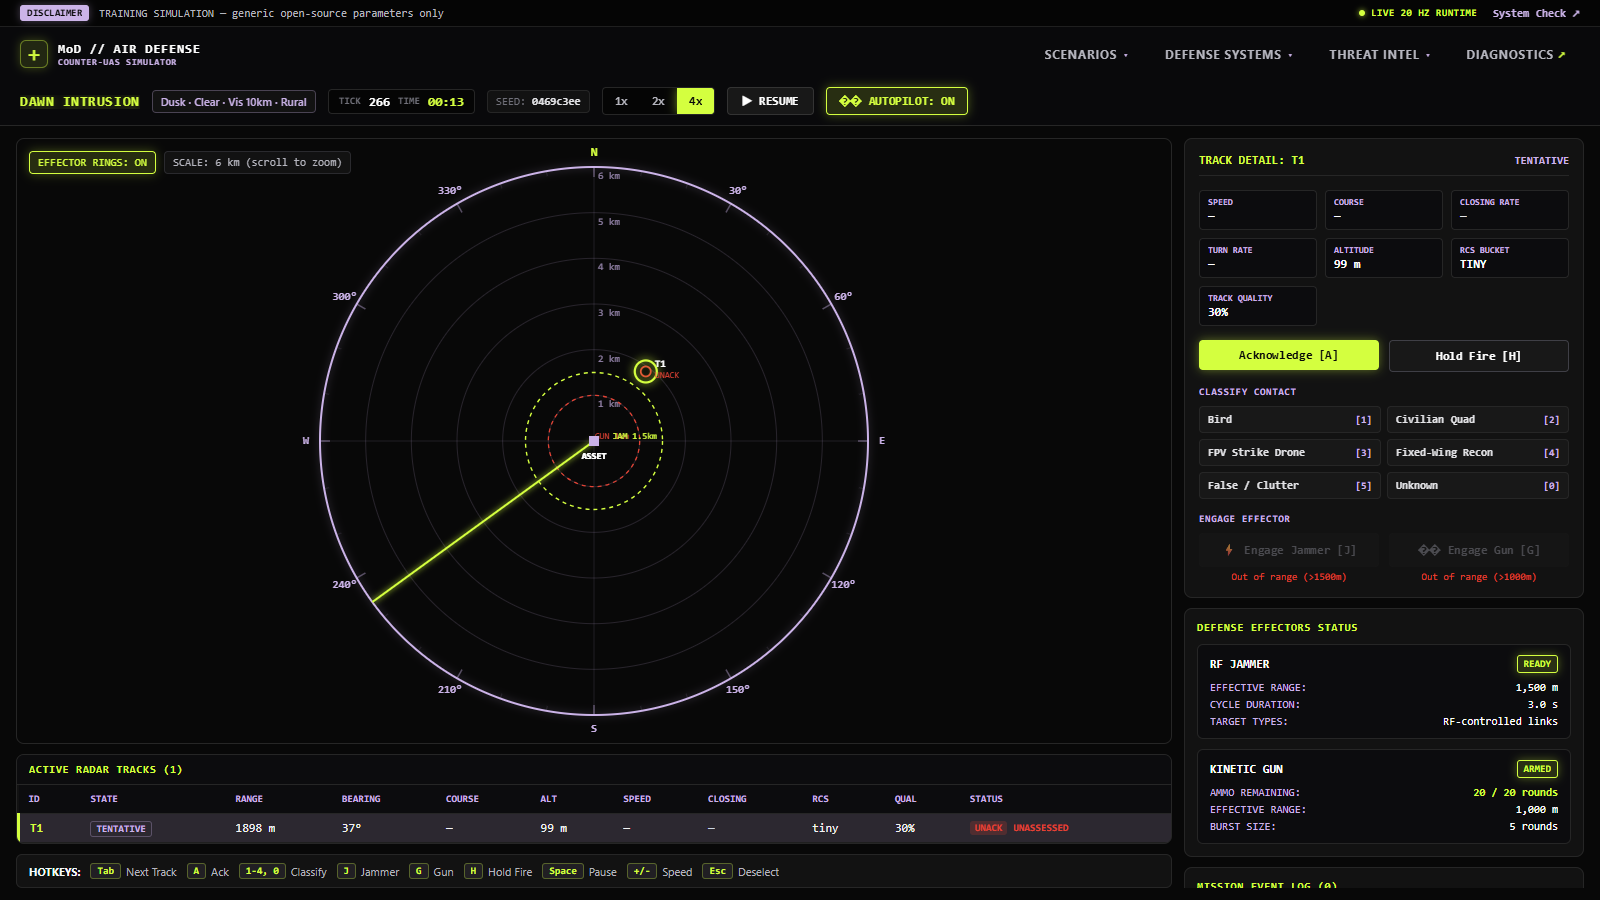
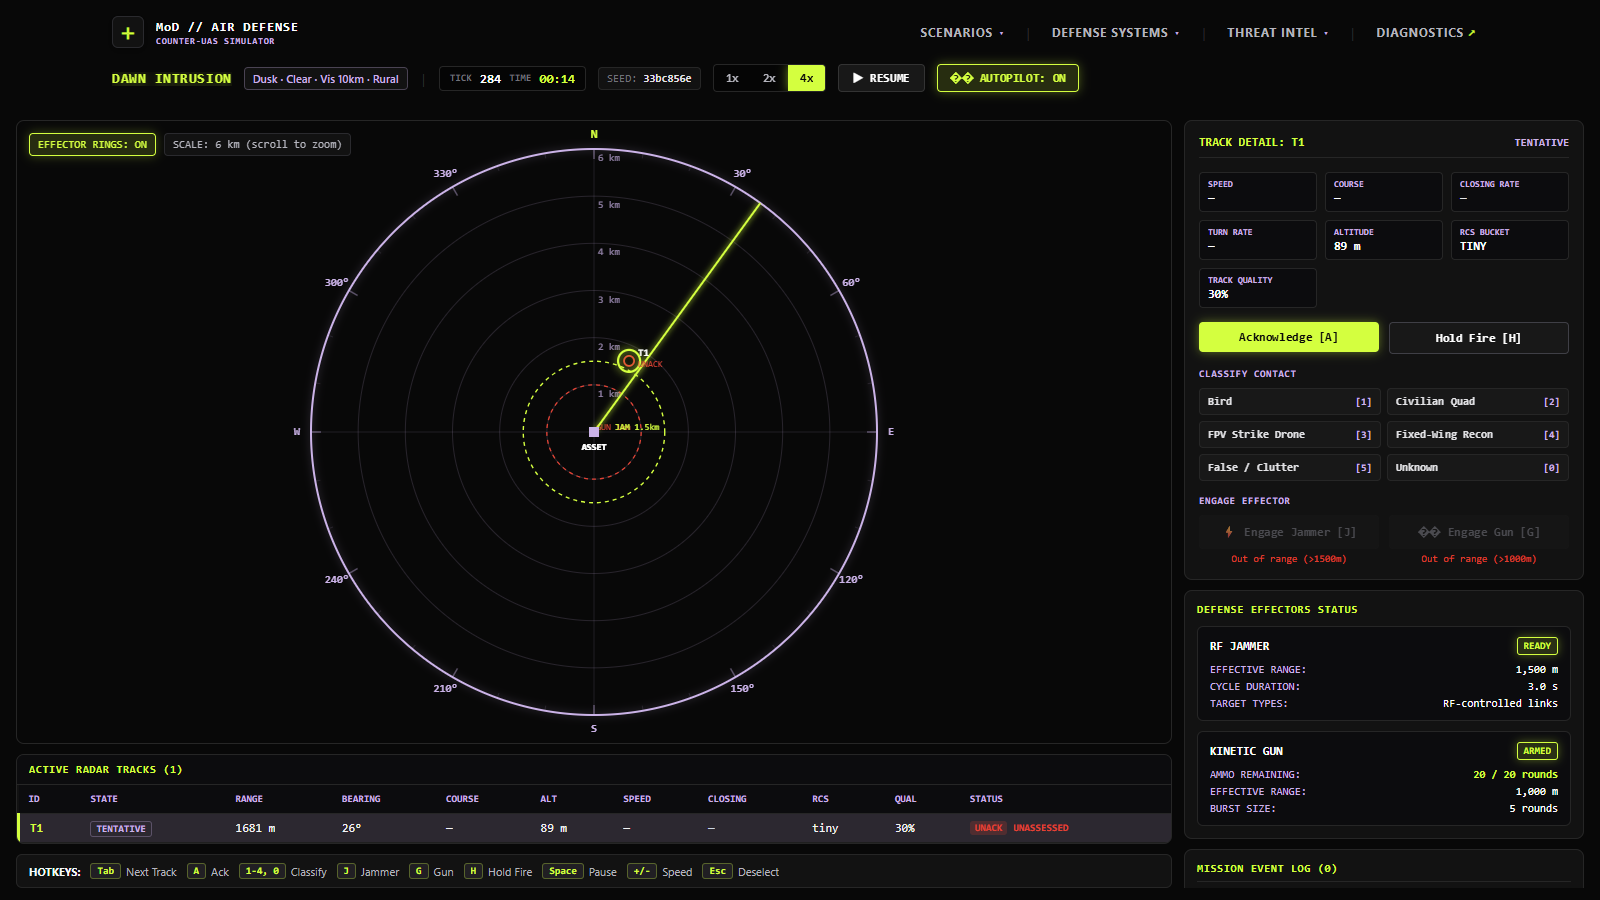
feat(ui): integrate navbar seamlessly into page background with Twenty-inspired styling

diff --git a/src/app/console/TopBar.tsx b/src/app/console/TopBar.tsx
@@ -65,30 +65,7 @@ export function TopBar({
 
   return (
     <header style={styles.headerRoot}>
-      {/* Top Disclaimer / Operational Sub-Bar */}
-      <div style={styles.topSubBar}>
-        <div style={styles.subBarLeft}>
-          <span style={styles.disclaimerPill}>
-            <TextRoll center stagger={0.02}>DISCLAIMER</TextRoll>
-          </span>
-          <span style={styles.disclaimerText}>
-            TRAINING SIMULATION — generic open-source parameters only
-          </span>
-        </div>
-        <div style={styles.subBarRight}>
-          <div style={styles.statusPulse}>
-            <span style={styles.pulseDot} />
-            <span style={styles.pulseText}>
-              {phase === 'running' ? 'LIVE 20 HZ RUNTIME' : 'SIMULATION STANDBY'}
-            </span>
-          </div>
-          <a href="#/check" style={styles.sysCheckLink}>
-            <TextRoll stagger={0.02}>System Check ↗</TextRoll>
-          </a>
-        </div>
-      </div>
-
-      {/* Main Luxury Navigation Bar */}
+      {/* Luxury Integrated Navigation Bar — Part of the page background */}
       <nav style={styles.mainNav}>
         {/* Left: Brand Identity */}
         <div style={styles.brandGroup}>
@@ -187,6 +164,8 @@ export function TopBar({
             </div>
           </div>
 
+          <span style={styles.navDivider}>|</span>
+
           {/* Tab 2: Defense Systems */}
           <div
             className="nav-mega-item"
@@ -266,6 +245,8 @@ export function TopBar({
               </div>
             </div>
           </div>
+
+          <span style={styles.navDivider}>|</span>
 
           {/* Tab 3: Threat Intel */}
           <div
@@ -350,6 +331,8 @@ export function TopBar({
             </div>
           </div>
 
+          <span style={styles.navDivider}>|</span>
+
           {/* Tab 4: Diagnostics Direct Link */}
           <div className="nav-mega-item">
             <a href="#/check" style={styles.navDirectLink}>
@@ -363,6 +346,19 @@ export function TopBar({
         <div style={styles.navRight}>
           {phase === 'setup' ? (
             <div style={styles.setupActionCluster}>
+              <div style={styles.statusPulse}>
+                <span style={styles.pulseDot} />
+                <span style={styles.pulseText}>STANDBY</span>
+              </div>
+
+              <span style={styles.navDivider}>|</span>
+
+              <a href="#/check" style={styles.sysCheckLink}>
+                <TextRoll stagger={0.02}>System Check ↗</TextRoll>
+              </a>
+
+              <span style={styles.navDivider}>|</span>
+
               <div style={styles.scenarioActiveChip} title="Current Scenario Selection">
                 <span style={styles.chipDot} />
                 <span style={styles.chipText}>{scTitle}</span>
@@ -385,6 +381,8 @@ export function TopBar({
                   {envStr}
                 </div>
               )}
+
+              <span style={styles.navDivider}>|</span>
 
               {/* Mission Clock */}
               <div style={styles.clockBox} id="missionClock">
@@ -454,42 +452,33 @@ const styles: Record<string, React.CSSProperties> = {
   headerRoot: {
     display: 'flex',
     flexDirection: 'column',
-    backgroundColor: '#080808',
-    borderBottom: '1px solid #262626',
+    backgroundColor: 'transparent',
+    border: 'none',
     position: 'relative',
     zIndex: 100,
+    width: '100%',
   },
-  topSubBar: {
-    backgroundColor: '#050505',
-    borderBottom: '1px solid #1f1f1f',
-    padding: '5px 20px',
+  mainNav: {
     display: 'flex',
     justifyContent: 'space-between',
     alignItems: 'center',
-    fontSize: '11px',
-    fontFamily: 'monospace',
-  },
-  subBarLeft: {
-    display: 'flex',
-    alignItems: 'center',
-    gap: '10px',
-  },
-  disclaimerPill: {
-    backgroundColor: '#cbb3e8',
-    color: '#080808',
-    padding: '2px 7px',
-    borderRadius: '3px',
-    fontWeight: 800,
-    fontSize: '10px',
-    boxShadow: '0 0 8px rgba(203, 179, 232, 0.35)',
-  },
-  disclaimerText: {
-    color: '#b5b5be',
-  },
-  subBarRight: {
-    display: 'flex',
-    alignItems: 'center',
+    padding: '16px 32px',
+    backgroundColor: 'transparent',
+    border: 'none',
+    maxWidth: '1440px',
+    margin: '0 auto',
+    width: '100%',
+    boxSizing: 'border-box',
     gap: '16px',
+    flexWrap: 'wrap',
+  },
+  navDivider: {
+    color: '#2a2a2e',
+    fontSize: '13px',
+    padding: '0 2px',
+    userSelect: 'none',
+    display: 'inline-flex',
+    alignItems: 'center',
   },
   statusPulse: {
     display: 'flex',
@@ -507,23 +496,15 @@ const styles: Record<string, React.CSSProperties> = {
     color: '#d4ff3f',
     fontSize: '10px',
     fontWeight: 700,
-    letterSpacing: '0.04em',
+    letterSpacing: '0.05em',
+    fontFamily: 'monospace',
   },
   sysCheckLink: {
     color: '#cbb3e8',
     textDecoration: 'none',
     fontSize: '11px',
     fontWeight: 600,
-  },
-  mainNav: {
-    display: 'flex',
-    justifyContent: 'space-between',
-    alignItems: 'center',
-    padding: '10px 20px',
-    backgroundColor: 'rgba(10, 10, 12, 0.95)',
-    backdropFilter: 'blur(12px)',
-    gap: '16px',
-    flexWrap: 'wrap',
+    fontFamily: 'monospace',
   },
   brandGroup: {
     display: 'flex',
@@ -532,29 +513,29 @@ const styles: Record<string, React.CSSProperties> = {
   brandLink: {
     display: 'flex',
     alignItems: 'center',
-    gap: '10px',
+    gap: '12px',
     textDecoration: 'none',
   },
   brandIconBox: {
-    width: '28px',
-    height: '28px',
+    width: '32px',
+    height: '32px',
     borderRadius: '6px',
-    backgroundColor: 'rgba(212, 255, 63, 0.12)',
-    border: '1px solid rgba(212, 255, 63, 0.4)',
+    backgroundColor: '#121212',
+    border: '1px solid #2a2a2e',
     display: 'flex',
     alignItems: 'center',
     justifyContent: 'center',
-    boxShadow: '0 0 10px rgba(212, 255, 63, 0.25)',
+    boxShadow: '0 2px 8px rgba(0, 0, 0, 0.4)',
   },
   brandCrosshair: {
     color: '#d4ff3f',
-    fontSize: '14px',
+    fontSize: '16px',
     fontWeight: 900,
   },
   brandTextCol: {
     display: 'flex',
     flexDirection: 'column',
-    gap: '1px',
+    gap: '2px',
   },
   brandName: {
     color: '#ffffff',
@@ -573,7 +554,7 @@ const styles: Record<string, React.CSSProperties> = {
   navCenter: {
     display: 'flex',
     alignItems: 'center',
-    gap: '6px',
+    gap: '8px',
   },
   navDirectLink: {
     color: '#b5b5be',
@@ -581,12 +562,12 @@ const styles: Record<string, React.CSSProperties> = {
     fontSize: '12px',
     fontWeight: 700,
     letterSpacing: '0.06em',
-    padding: '8px 14px',
+    padding: '8px 12px',
     borderRadius: '6px',
     display: 'flex',
     alignItems: 'center',
     gap: '4px',
-    transition: 'all 0.2s ease',
+    transition: 'all 0.18s ease',
   },
   menuBadgeActive: {
     fontSize: '9px',
@@ -686,19 +667,6 @@ const styles: Record<string, React.CSSProperties> = {
   seedValueText: {
     color: '#ffffff',
     fontWeight: 600,
-  },
-  btnNavCta: {
-    backgroundColor: '#d4ff3f',
-    color: '#080808',
-    border: 'none',
-    borderRadius: '6px',
-    padding: '7px 14px',
-    fontSize: '12px',
-    fontWeight: 800,
-    fontFamily: 'monospace',
-    cursor: 'pointer',
-    letterSpacing: '0.04em',
-    boxShadow: '0 0 10px rgba(212, 255, 63, 0.35)',
   },
   runningActionCluster: {
     display: 'flex',

diff --git a/src/app/styles/console.css b/src/app/styles/console.css
@@ -158,26 +158,25 @@ body {
 
 .nav-mega-btn {
   background: transparent;
-  border: 1px solid transparent;
+  border: none;
   color: var(--text-secondary);
   font-family: inherit;
   font-size: 12px;
   font-weight: 700;
   letter-spacing: 0.06em;
-  padding: 8px 14px;
+  padding: 8px 12px;
   border-radius: 6px;
   cursor: pointer;
   display: flex;
   align-items: center;
   gap: 6px;
-  transition: all 0.2s cubic-bezier(0.16, 1, 0.3, 1);
+  transition: all 0.18s cubic-bezier(0.16, 1, 0.3, 1);
 }
 
 .nav-mega-btn:hover,
 .nav-mega-btn.is-active {
-  color: #ffffff;
-  background-color: rgba(203, 179, 232, 0.12);
-  border-color: rgba(203, 179, 232, 0.3);
+  color: var(--accent-lavender);
+  background-color: rgba(203, 179, 232, 0.08);
 }
 
 .nav-mega-chevron {

diff --git a/src/app/components/DroneHeroSection.tsx b/src/app/components/DroneHeroSection.tsx
@@ -24,10 +24,10 @@ const styles: Record<string, React.CSSProperties> = {
     display: 'flex',
     flexDirection: 'column',
     alignItems: 'center',
-    backgroundColor: '#080808',
-    borderBottom: '1px solid #262626',
+    backgroundColor: 'transparent',
+    borderBottom: 'none',
     boxSizing: 'border-box',
-    padding: '16px 24px 20px 24px',
+    padding: '4px 24px 24px 24px',
   },
   canvasWrapper: {
     position: 'relative',
